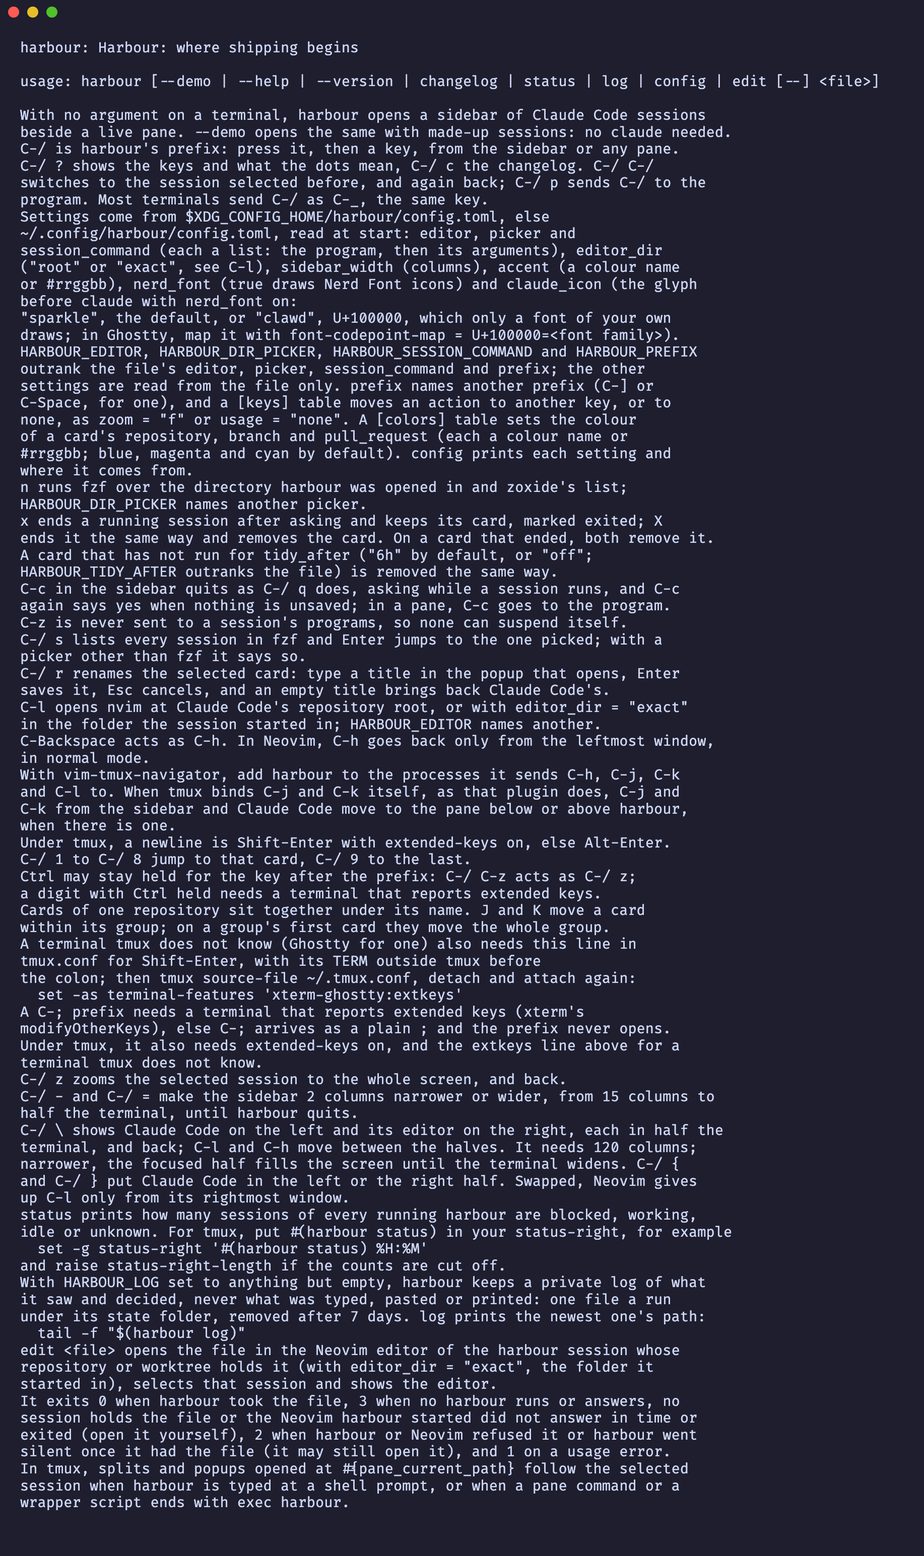
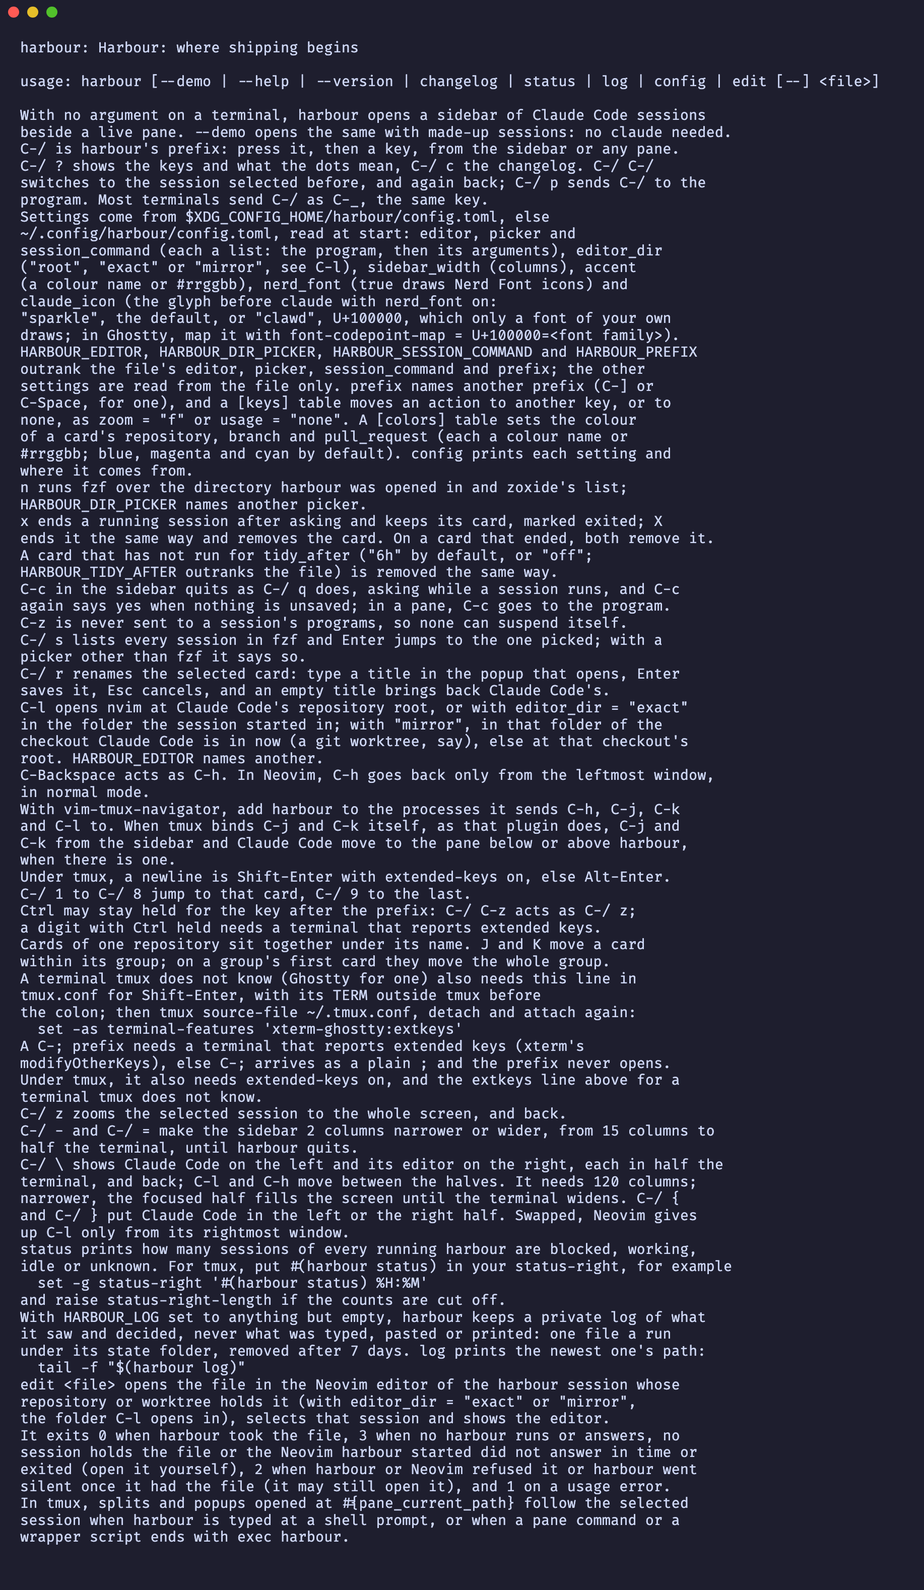
The editor follows Claude Code only between checkouts of one repository

Changed region(s): [[0.0, 0.0311, 0.777, 0.9631]]

diff --git a/tests/editor.rs b/tests/editor.rs
@@ -257,6 +257,65 @@ fn the_mirrored_directory_is_the_start_folder_when_the_session_started_outside_a
     assert_eq!(directory(&feature, &plain, None, EditorDir::Mirror), plain);
 }
 
+#[test]
+fn the_mirrored_directory_of_a_session_started_at_a_root_is_the_worktree_root_itself() {
+    let scratch = tempfile::tempdir().unwrap();
+    let app = checkout(scratch.path(), "acme-app");
+    let feature = worktree(scratch.path(), &app, "acme-app-feature");
+
+    assert_eq!(
+        directory(&feature, &app, None, EditorDir::Mirror).as_os_str(),
+        feature.as_os_str()
+    );
+}
+
+#[test]
+fn the_mirrored_directory_is_the_start_folder_when_claude_code_moved_into_another_repository() {
+    let scratch = tempfile::tempdir().unwrap();
+    let app = checkout(scratch.path(), "acme-app");
+    let lib = checkout(scratch.path(), "acme-lib");
+    fs::create_dir_all(app.join("src")).unwrap();
+    fs::create_dir_all(lib.join("src")).unwrap();
+
+    assert_eq!(
+        directory(&lib, &app.join("src"), None, EditorDir::Mirror),
+        app.join("src")
+    );
+}
+
+#[test]
+fn the_mirrored_directory_is_the_start_folder_when_claude_code_moved_into_a_repository_nested_in_its_checkout()
+ {
+    let scratch = tempfile::tempdir().unwrap();
+    let app = checkout(scratch.path(), "acme-app");
+    let nested = checkout(&app, "vendor/acme-nested");
+    fs::create_dir_all(app.join("src")).unwrap();
+    fs::create_dir_all(nested.join("src")).unwrap();
+
+    assert_eq!(
+        directory(&nested, &app.join("src"), None, EditorDir::Mirror),
+        app.join("src")
+    );
+}
+
+#[test]
+fn the_mirrored_directory_is_the_start_folder_when_claude_code_left_a_submodule_for_its_superproject()
+ {
+    let scratch = tempfile::tempdir().unwrap();
+    let app = checkout(scratch.path(), "acme-app");
+    let module = app.join(".git/modules/acme-sub");
+    fs::create_dir_all(&module).unwrap();
+    let sub = app.join("vendor/acme-sub");
+    fs::create_dir_all(sub.join("src")).unwrap();
+    fs::create_dir_all(app.join("src")).unwrap();
+    fs::write(sub.join(".git"), format!("gitdir: {}\n", module.display())).unwrap();
+
+    assert_eq!(
+        directory(&app, &sub.join("src"), None, EditorDir::Mirror),
+        sub.join("src")
+    );
+}
+
 fn checkout(scratch: &Path, name: &str) -> PathBuf {
     let checkout = scratch.join(name);
     fs::create_dir_all(checkout.join(".git")).unwrap();
@@ -266,6 +325,7 @@ fn checkout(scratch: &Path, name: &str) -> PathBuf {
 fn worktree(scratch: &Path, main: &Path, name: &str) -> PathBuf {
     let git_dir = main.join(".git/worktrees").join(name);
     fs::create_dir_all(&git_dir).unwrap();
+    fs::write(git_dir.join("commondir"), "../..\n").unwrap();
     let worktree = scratch.join(name);
     fs::create_dir_all(&worktree).unwrap();
     fs::write(

diff --git a/src/repo.rs b/src/repo.rs
@@ -72,22 +72,38 @@ fn repository_at(folder: &Path) -> Option<Place> {
     None
 }
 
-fn linked(folder: &Path, dot_git: &Path) -> Option<Place> {
+pub fn common(root: &Path) -> Option<PathBuf> {
+    let dot_git = root.join(".git");
+    if dot_git.is_dir() {
+        return Some(dot_git);
+    }
+    if dot_git.is_file() {
+        let git_dir = git_dir(root, &dot_git)?;
+        return Some(common_of(&git_dir).unwrap_or(git_dir));
+    }
+    Some(root.to_path_buf())
+}
+
+fn git_dir(folder: &Path, dot_git: &Path) -> Option<PathBuf> {
     let target = small(dot_git)?;
     let git_dir = folder.join(path_of(
         target.trim_ascii().strip_prefix(b"gitdir:")?.trim_ascii(),
     ));
-    if !git_dir.is_dir() {
-        return None;
-    }
-    let repository = match small(&git_dir.join("commondir")) {
-        Some(common) => {
-            let common = normalized(&git_dir.join(path_of(common.trim_ascii())));
-            match common.file_name() {
-                Some(name) if name == ".git" => name_of(common.parent().unwrap_or(&common)),
-                _ => bare_name(&common),
-            }
-        }
+    git_dir.is_dir().then_some(git_dir)
+}
+
+fn common_of(git_dir: &Path) -> Option<PathBuf> {
+    let common = small(&git_dir.join("commondir"))?;
+    Some(normalized(&git_dir.join(path_of(common.trim_ascii()))))
+}
+
+fn linked(folder: &Path, dot_git: &Path) -> Option<Place> {
+    let git_dir = git_dir(folder, dot_git)?;
+    let repository = match common_of(&git_dir) {
+        Some(common) => match common.file_name() {
+            Some(name) if name == ".git" => name_of(common.parent().unwrap_or(&common)),
+            _ => bare_name(&common),
+        },
         None => name_of(folder),
     };
     Some(Place {

diff --git a/src/editor.rs b/src/editor.rs
@@ -315,15 +315,22 @@ fn mirrored(directory: &Path, started: &Path, home: Option<&Path>) -> PathBuf {
     else {
         return started.to_path_buf();
     };
-    if repo::identity(start_root) == repo::identity(seen_root) {
+    if repo::identity(start_root) == repo::identity(seen_root)
+        || !same_repository(start_root, seen_root)
+    {
         return started.to_path_buf();
     }
-    started
-        .strip_prefix(start_root)
-        .map(|below| seen_root.join(below))
-        .ok()
-        .filter(|mirror| mirror.is_dir())
-        .unwrap_or_else(|| seen_root.to_path_buf())
+    match started.strip_prefix(start_root) {
+        Ok(below) if !below.as_os_str().is_empty() && seen_root.join(below).is_dir() => {
+            seen_root.join(below)
+        }
+        _ => seen_root.to_path_buf(),
+    }
+}
+
+fn same_repository(one: &Path, other: &Path) -> bool {
+    let identity = |root| repo::common(root).and_then(|common| repo::identity(&common));
+    identity(one).is_some_and(|common| identity(other) == Some(common))
 }
 
 fn label(directory: &Path) -> String {

diff --git a/tests/app/directory.rs b/tests/app/directory.rs
@@ -80,6 +80,7 @@ fn mirrored_the_editor_opens_the_start_subfolder_in_the_worktree_claude_code_mov
     repository(scratch.path(), "acme-app");
     let rust = folder(scratch.path(), "acme-app/rust");
     let git_dir = folder(scratch.path(), "acme-app/.git/worktrees/acme-app-feature");
+    fs::write(git_dir.join("commondir"), "../..\n").unwrap();
     let feature = folder(scratch.path(), "acme-app-feature/rust");
     fs::write(
         scratch.path().join("acme-app-feature/.git"),

diff --git a/src/AGENTS.md b/src/AGENTS.md
@@ -40,7 +40,7 @@ src/app/changelog.rs          the `changelog` action (the prefix then `c` by def
 src/handoff.rs                `harbour edit <file>` and its listener: the file made absolute (its folder resolved when the file does not exist yet, a dangling symlink followed to where it points, 4096 bytes at most), every harbour asked over a socket in a private (0700) `$XDG_STATE_HOME/harbour/edit/`, else `~/.local/state/harbour/edit/`, which of its sessions holds it, how deep its editor directory lies, whether it is selected and when it was last used, and the first by that order told to open it; the listener binds `<pid>-<n>.sock` (0600), removes it when dropped, binds again within 5 s when it is gone, removes the sockets no process listens on, and, on a thread of its own that sleeps in `poll` until a connection, its check or harbour's exit wakes it, accepts, checks the peer and reads each request on a thread of its own (at most 16 in flight, the rest closed at once), keeping only a request from its own user that arrives within 100 ms and has not expired; it resolves the path again itself, answers `none` or a refusal when it does not resolve, and hands the app the rest over a channel with a deadline of its expiry, 5 s at most
 src/memory.rs                 the remembered sessions on disk: one `<sessionId>.json` per conversation under `$XDG_STATE_HOME/harbour/sessions/<configuration>/`, else `~/.local/state/harbour/sessions/<configuration>/`, one folder per Claude Code configuration (a stable hash of its resolved `projects/` path, symlinks followed), so a harbour never shows, resumes or prunes another configuration's conversations (0700 folder, 0600 files, written through a staged file and a rename, a staged file older than a minute swept); the directory stored as text, or as its bytes when it is not UTF-8; no file names another, so none deletes another; read leniently: a regular file only, never through a symlink, at most 64 KiB, `version` 1, an id of Claude Code's shape (a lowercase 8-4-4-4-12 hex UUID, so `--resume <id>` never reads it as an option) matching its name, an absolute directory, anything else skipped and left on disk, a file from a newer version never overwritten or removed; `place` rewrites only an existing file's position, writing nothing when the file is gone or the position unchanged; `title` the same for the optional given title (`givenTitle`, left out when none, so a file written before it reads as having none); `reserve`: a private `<id>.<unique>.lock` held with a non-blocking lock by every running session with a remembered id (taken when the id is first known, the new one taken before the old one is released when it changes, tried again at each read while held elsewhere) and kept only while that file is still at its path, retried once when held, dead ones swept
 src/follow.rs                 where harbour works, so tmux's `#{pane_current_path}` follows the selected session: the editor's `directory` for its last seen and its start directory, under the app's `editor_dir`, or where harbour was opened with no session or when that directory is gone or cannot be entered; checked at a frame when the selection or the directory changed, else every half second, and moved to only when it differs by path or by device and inode (a directory replaced in place is entered again); `temporary`, the temporary directory made absolute at start
-src/editor.rs                 an editor beside a session's Claude Code pane: the program it runs and the directory it belongs to, started with harbour's `TMUX` and `TMUX_PANE`, so a tmux command it runs targets harbour's pane, `directory`, the one place that decides where a session's editor opens, which C-l, side by side, `harbour edit` and `src/follow.rs` share: with `EditorDir::Root` (`editor_dir = "root"`) the repository root `repo::root` finds, the card's own walk, never walked up from a directory that is gone; with `EditorDir::Exact` the directory the session started in (the one picked for it, or a stopped card's remembered directory it resumes in), whatever Claude Code was seen in since; with `EditorDir::Mirror` that start's subfolder below its checkout root, in the checkout Claude Code is seen in now (a linked worktree, say), else that checkout's root when it lacks the subfolder, and the start itself while Claude Code stays in the start's checkout (roots compared by device and inode), when either is outside a repository or when the seen directory is gone; Neovim listens on a socket in a private (0700) temporary directory removed with the editor, under `/tmp` when the temporary directory would make the socket path too long for macOS (103 bytes), and without one when that directory cannot be made, and says through it whether it has unsaved changes (`changes`: saved, unsaved, or unknown when it cannot be asked; a modified buffer counts when its `buftype` is empty or `acwrite`, a file the user would lose, never a terminal, prompt, `nofile` or `nowrite` buffer), and whether C-h stays in it (`wants_ctrl_h`: anything but mode `n` or `nt` with `blocking` false in the leftmost window), and C-l the same in the rightmost window (`wants_ctrl_l`, side by side swapped); a session's editors end with it
+src/editor.rs                 an editor beside a session's Claude Code pane: the program it runs and the directory it belongs to, started with harbour's `TMUX` and `TMUX_PANE`, so a tmux command it runs targets harbour's pane, `directory`, the one place that decides where a session's editor opens, which C-l, side by side, `harbour edit` and `src/follow.rs` share: with `EditorDir::Root` (`editor_dir = "root"`) the repository root `repo::root` finds, the card's own walk, never walked up from a directory that is gone; with `EditorDir::Exact` the directory the session started in (the one picked for it, or a stopped card's remembered directory it resumes in), whatever Claude Code was seen in since; with `EditorDir::Mirror` that start's subfolder below its checkout root, in the checkout Claude Code is seen in now when it is another checkout of the same repository (a linked worktree, say: the same git common dir, `repo::common`, by device and inode), else that checkout's root when it lacks the subfolder or the start is its root, and the start itself while Claude Code stays in the start's checkout (roots compared by device and inode), or moves into another repository (an unrelated one, one nested in the checkout, a submodule or its superproject), when either is outside a repository or when the seen directory is gone; Neovim listens on a socket in a private (0700) temporary directory removed with the editor, under `/tmp` when the temporary directory would make the socket path too long for macOS (103 bytes), and without one when that directory cannot be made, and says through it whether it has unsaved changes (`changes`: saved, unsaved, or unknown when it cannot be asked; a modified buffer counts when its `buftype` is empty or `acwrite`, a file the user would lose, never a terminal, prompt, `nofile` or `nowrite` buffer), and whether C-h stays in it (`wants_ctrl_h`: anything but mode `n` or `nt` with `blocking` false in the leftmost window), and C-l the same in the rightmost window (`wants_ctrl_l`, side by side swapped); a session's editors end with it
 src/nvim.rs                   `mode`, `eval` and `edit`: one msgpack-RPC `nvim_get_mode`, `nvim_eval` or `nvim_cmd` (`edit` with the path as bytes and `magic` off, so `%`, `#`, `|` and spaces stay in the name) over that socket, the connect, the write and the read all bounded by one deadline, the reply matched by its request id (a notification before it is skipped, at most 1 MiB read), `None` for no answer before the deadline
 src/zoom.rs                   `guaranteed`, the columns the headline keeps before the names fit (its dot, up to 16 columns of title, the time); `info`, a pure function: the headline of the zoomed top row and of the side-by-side borders, the dot in its state's colour, the title without a colour of its own, the repository and branch drawn by `src/facts.rs` as card line 3 draws them (each in its colour of `Colors`, ` · ` dimmed, with icons the glyphs, the `…` of a cut in the colour it cuts) and the time dimmed, fitted to a room (the place cut first, then the title, the place alone without a title; the time kept while the title has a column; the dot alone at 3 columns, nothing under)
 src/tabs.rs                   `strip`, a pure function: the pane border's `claude | <editor>: <directory>`, fitted by display width (the directory loses its start first, then the editor's name; nothing shows once not one column of the editor's name fits); `claude` and `editor_named`, the side-by-side borders' names, each fitted alone; `iconed`, the same with `nerd_font` on: the chosen Claude glyph of `src/icons.rs` and a space before `claude`, and before the editor's name when it is Neovim, the directory going first, then both glyphs together, then the rest as `strip` fits it, so a glyph never shows without its whole name
@@ -49,7 +49,7 @@ src/session.rs                a session: a command in a PTY (`Transport::Pty`, t
 src/demo.rs                   the made-up sessions of `--demo` and its picker (fzf over made-up directories, without harbour's directory), and its `nvim` (a script printing a made-up file, no socket), and its usage report for `u`: `acme/*` scripts, never real data; the registry they write in the temp dir, with a made-up checkout for each session to start in, removed when dropped
 src/registry.rs               Claude Code's session file for a pid (`<CLAUDE_CONFIG_DIR or ~/.claude>/sessions/<pid>.json`): its status, when it last changed, what it waits for, its `sessionId` and its `cwd` (the directory C-l opens in only until a transcript named one), read leniently, ignored when written well before the session started; and the ids open anywhere, from the regular files (at most 64 KiB) whose pid is alive
 src/state.rs                  a session's state from its exit and its file: the dot and its colour, the title counts above zero fitted to the sidebar's width (none and too narrow for the word: no title, so the border stays whole), and the help legend
-src/repo.rs                   a session's repository and branch read from git's own small files (`.git`, `gitdir`, `commondir`, `HEAD`) as bytes, never by running git: a repository, a worktree (the main repository's name), a submodule, a bare repository and its worktrees (without `.git`), a detached `HEAD`, the nearest repository above a deleted folder, else the folder's name; `root` and `place` share one walk up that skips the home directory itself (a dotfiles `.git` there), compared by device and inode so a symlinked home still matches
+src/repo.rs                   a session's repository and branch read from git's own small files (`.git`, `gitdir`, `commondir`, `HEAD`) as bytes, never by running git: a repository, a worktree (the main repository's name), a submodule, a bare repository and its worktrees (without `.git`), a detached `HEAD`, the nearest repository above a deleted folder, else the folder's name; `root` and `place` share one walk up that skips the home directory itself (a dotfiles `.git` there), compared by device and inode so a symlinked home still matches; `common`, a root's git common dir (its `.git` folder, where a `.git` file's `gitdir` and that folder's `commondir` lead, or a bare repository itself), and `identity`, a folder's device and inode
 src/transcript.rs             a session's transcript (`<CLAUDE_CONFIG_DIR or ~/.claude>/projects/*/<sessionId>.jsonl`), found by its `sessionId` (harbour's own, passed as `--session-id` when it runs `claude`, until the registry names another; a failed or empty registry read keeps the one followed) (and found again when it can no longer be opened) and read from its last MiB, then only what was appended, a line over a MiB skipped: its title, last prompt, branch, directory and pull request, each kept to its first 4 KiB until a good value replaces it, an empty one ignored, never a tool call; and its subagents still running (a `subagents/*.meta.json` without `"finished": true`, not older than the session; a finished one never read again); its tasks, on the same read and before the transcript is looked for (`<CLAUDE_CONFIG_DIR or ~/.claude>/tasks/<sessionId>/`, the projects folder's sibling): only regular files named `<digits>.json`, the lowest 256 ids kept while the folder is walked, each read up to 64 KiB, an object whose `status` is `completed` done, any other object open, a file that is not JSON, not an object or over 64 KiB open once its modification time is 2 s from now (`with_writing` sets that window for tests), else the read is partial, as on any error opening or reading it, as on a directory entry error or a folder that fails to list for any reason but not found, and the previous fact stays (none on a first read); each list keeps each id's last status, and an id that vanishes counts as done when it was last seen completed or when the folder empties in that read, else it was deleted and leaves the list: done the present completed plus the vanished as done, total the present plus them; none when the folder is gone or no list has started; a list starts when task files appear after an empty or missing folder, or when every present id is above the largest id the list ever listed, past the 256 too, and an emptied list's all-done fact stays until then; `located`, the path of one conversation's transcript
 src/card.rs                   a session's card in the sidebar: four lines cut by `src/text.rs`, with `in_group` its line 3 without the repository and, on a group's first card, a header row above it (the repository's name dimmed, a space and a `─` rule to the edge, the rule only when a column is left after the space; never selected, no blank before its card, left out when its card's first row has no room below it), the title the given one (`renamed`, cleaned, when not empty), else the transcript's, else the name, line 3 its repository, branch and pull request as `src/facts.rs` draws them, line 4 always there, its subagents then its tasks done (`3/7`) the same way, blank on an ended card and with neither, with `with_icons` (`nerd_font` on) their glyphs, line 2 the last prompt dimmed while working or idle (empty on the selected card), else what it waits for, `exited` (dimmed, red with a code or a signal) or why it cannot resume, on every card; the time in its state at the right of line 1 (`<1m`, `3m`, `2h`, `4d`; for an exited session, since harbour saw the exit; none without a time), dimmed, kept while the title has a column; a card that ended (exited or stopped) dimmed on every row unless selected; the accent's bar (cyan by default, left out with no inner column) and bold down the selected card, a blank line between cards, the scroll by items (headers and cards) that keeps the selected card whole, with its header when it heads a group and the height allows, and moves only when it would leave the view, kept as it was while the sidebar has no height (zoomed, or the narrow layout showing the pane)
 src/facts.rs                  `Colors` (the config's `[colors]`) and `fitted`, a pure function: a card's line 3, its line 4 and the headline's repository and branch, each fact in its colour, the subagents, the open tasks (`tasks 3/7`) and the ` · ` between facts dimmed, the tasks green (`Color::Green`) once all are done, the `…` of a cut in the colour of the fact it cuts; with icons a glyph and a space before each fact in place of the dots and the words `subagents` and `tasks`, each glyph in its fact's colour, cut from its end as without icons, a glyph that would keep no column of its text going too

diff --git a/plans/phase-56-editor-dir-mirror.md b/plans/phase-56-editor-dir-mirror.md
@@ -33,9 +33,10 @@ Claude Code is in now. `root` and `exact` keep their behaviour; the default stay
 | a directory | none (outside a repository) | any | the start directory |
 | a directory | any | none (outside a repository) | the start directory |
 | a directory | a root | the same root, by device and inode (a symlinked path too) | the start directory |
-| a directory | a root | another root, which holds the start's subfolder | `<seen root>/<subfolder>` |
-| a directory | a root | another root, without that subfolder | the seen root |
-| a directory | a root, the start itself (no subfolder) | another root | the seen root |
+| a directory | a root | another repository's root (another git common dir: an unrelated repository, one nested in the checkout, a submodule or its superproject) | the start directory |
+| a directory | a root | another checkout of the same repository (the same git common dir, by device and inode), which holds the start's subfolder | `<seen root>/<subfolder>` |
+| a directory | a root | another checkout of the same repository, without that subfolder | the seen root |
+| a directory | a root, the start itself (no subfolder) | another checkout of the same repository | the seen root, without a trailing `/` |
 
 What reads from outside harbour, and what the user sees when it changes:
 
@@ -72,14 +73,21 @@ The plan draws no text, so no width table is needed.
   start's own checkout `mirror` behaves as `exact`, a symlinked path included.
 - Another checkout without the subfolder gives its root: the nearest folder of that checkout
   that surely exists.
+- Another repository gives the start directory (review round 1): `mirror` follows Claude Code
+  only between checkouts of one repository, the roots whose git common dir (`.git`, or where a
+  `.git` file's `gitdir` and its `commondir` lead, `repo::common`) is the same folder by device
+  and inode, so a move into an unrelated repository, a nested one or a submodule, or from a
+  submodule up into its superproject, opens where the session started, as `exact`.
+- A session started at a checkout root opens the other checkout's root itself, never that root
+  with a trailing `/`, which the pane border would draw (review round 1).
 - `repo::identity` became public so `editor.rs` compares roots the way `repo.rs` compares the
   home directory, rather than holding a second copy.
 - After task 1 the orchestrator, at the owner's word, switched this run from `scripts/ship.sh` to plain git: tasks 2 and 3
   ran their related tests, `cargo fmt`, `cargo clippy --all-targets -- -D warnings` and
   `scripts/scrub-check.sh` (both modes) before each commit, without the full gates or the dev
   install.
-- `docs/help.png`, the shot of `harbour --help`, was not rerendered on the branch: the help
-  text changed, so `scripts/screenshots.sh` is due before `gh pr ready`.
+- `docs/help.png`, the shot of `harbour --help`, was rerendered in review round 1; no other
+  image changed.
 
 ## Hurdles
 
